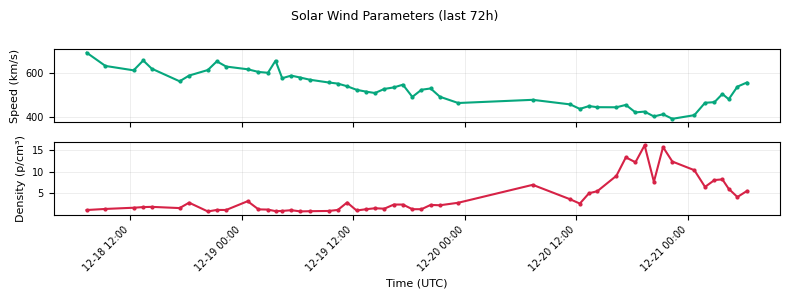
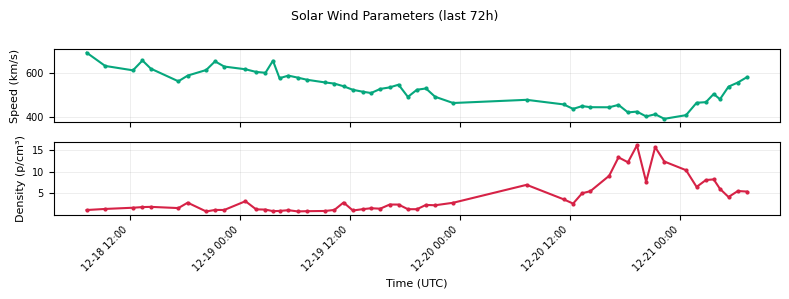
Vault Narrator: Auto-update 2025-12-21 08:06 UTC

diff --git a/LATEST_VAULT_STATUS.md b/LATEST_VAULT_STATUS.md
@@ -1,6 +1,6 @@
 # 🔐 VAULT STATUS REPORT
 
-**Generated:** 2025-12-21 07:05 UTC  
+**Generated:** 2025-12-21 08:06 UTC  
 **Data Source:** `data/cme_heartbeat_log_2025_12.csv`
 
 ---
@@ -11,14 +11,14 @@
 **Last Lock Timestamp:** 2025-12-20 04:20:00 UTC  
 
 **Latest Solar Wind Conditions:**  
-- Density: 5.54 p/cm³  
-- Speed: 555.4 km/s  
+- Density: 5.41 p/cm³  
+- Speed: 579.4 km/s  
 
 ---
 
 ## 🌞 NOAA SPACE WEATHER SUMMARIES
 
-- [SRS Report](reports/latest_srs.md) (fetched: 2025-12-21 07:05 UTC)  
+- [SRS Report](reports/latest_srs.md) (fetched: 2025-12-21 08:05 UTC)  
 - F10.7 Report: *not available*  
 
 ---
@@ -39,7 +39,6 @@
 
 | Time (UTC)          | χ Amplitude | Density (p/cm³) | Speed (km/s) | χ Status |
 |---------------------|-------------|-----------------|--------------|----------|
-| 2025-12-20 04:20:00 | 0.1500 | — | — | ✅ LOCK |
 | 2025-12-20 07:18:00 | 0.1372 | 6.97 | 477.2 | — |
 | 2025-12-20 11:20:00 | 0.1245 | 3.62 | 456.5 | — |
 | 2025-12-20 12:22:00 | 0.1201 | 2.63 | 436.2 | — |
@@ -59,6 +58,7 @@
 | 2025-12-21 04:23:00 | 0.1230 | 6.04 | 479.9 | — |
 | 2025-12-21 05:19:00 | 0.1333 | 4.15 | 536.7 | — |
 | 2025-12-21 06:20:00 | 0.1230 | 5.54 | 555.4 | — |
+| 2025-12-21 07:19:00 | 0.1187 | 5.41 | 579.4 | — |
 
 ---
 
